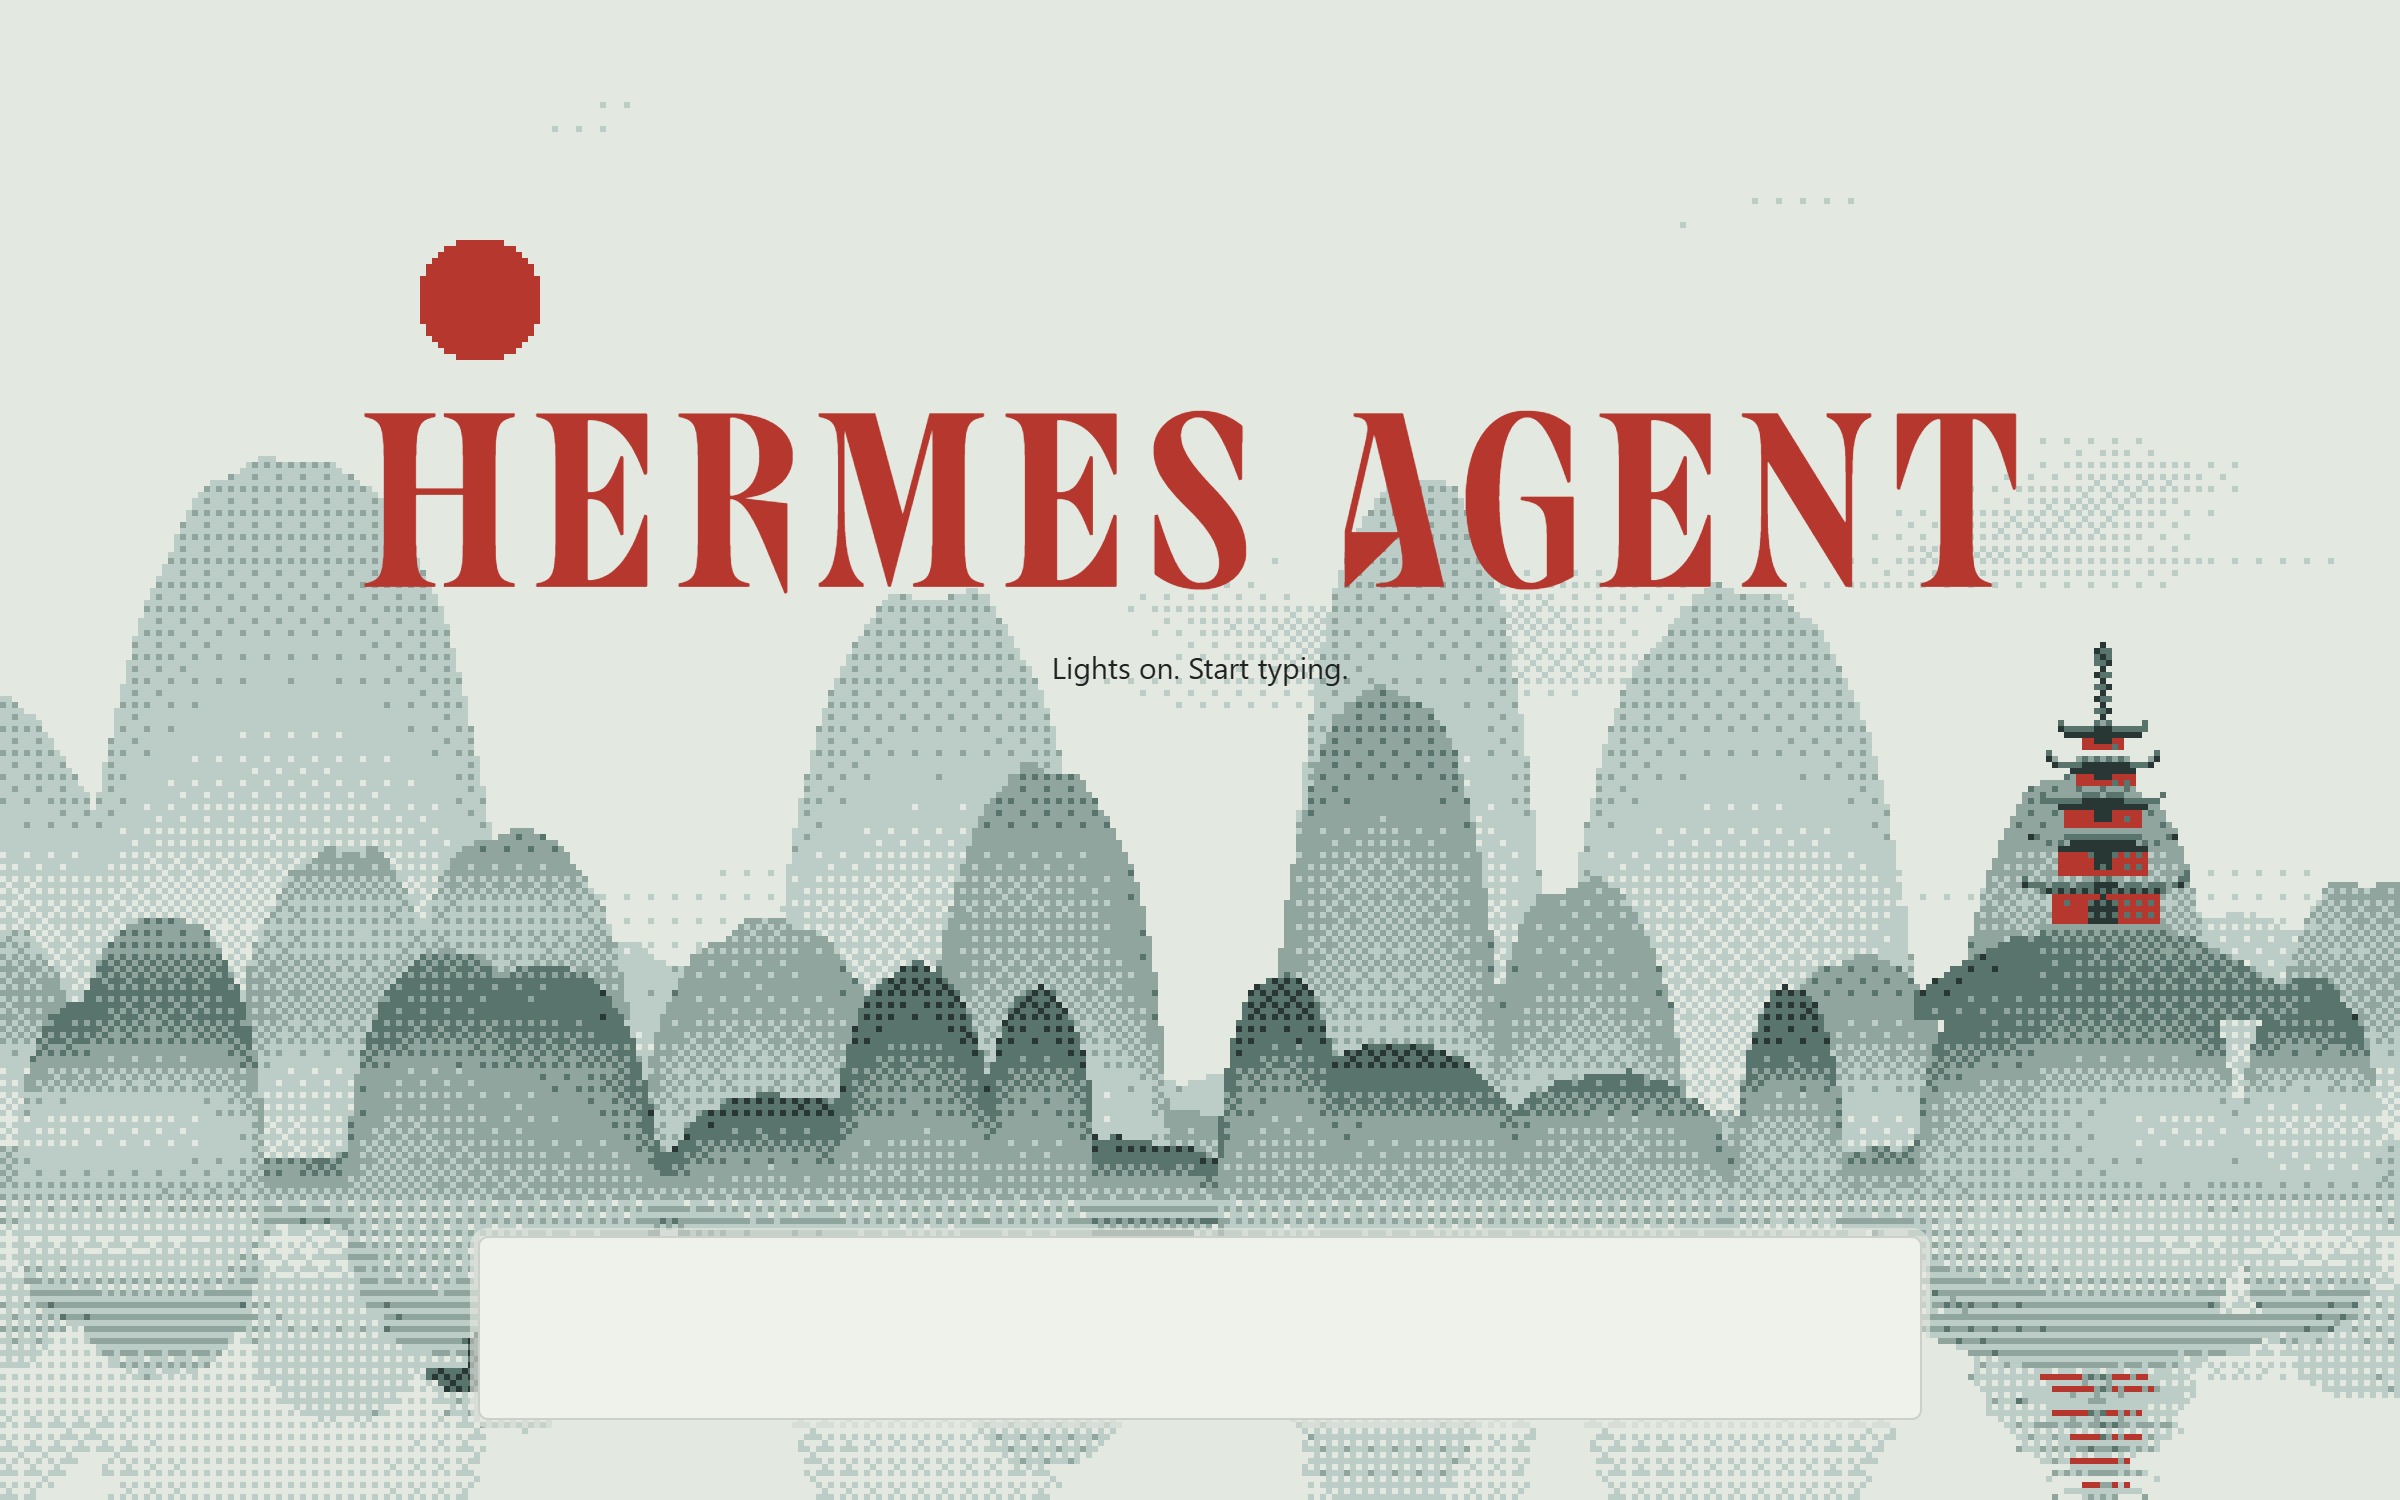
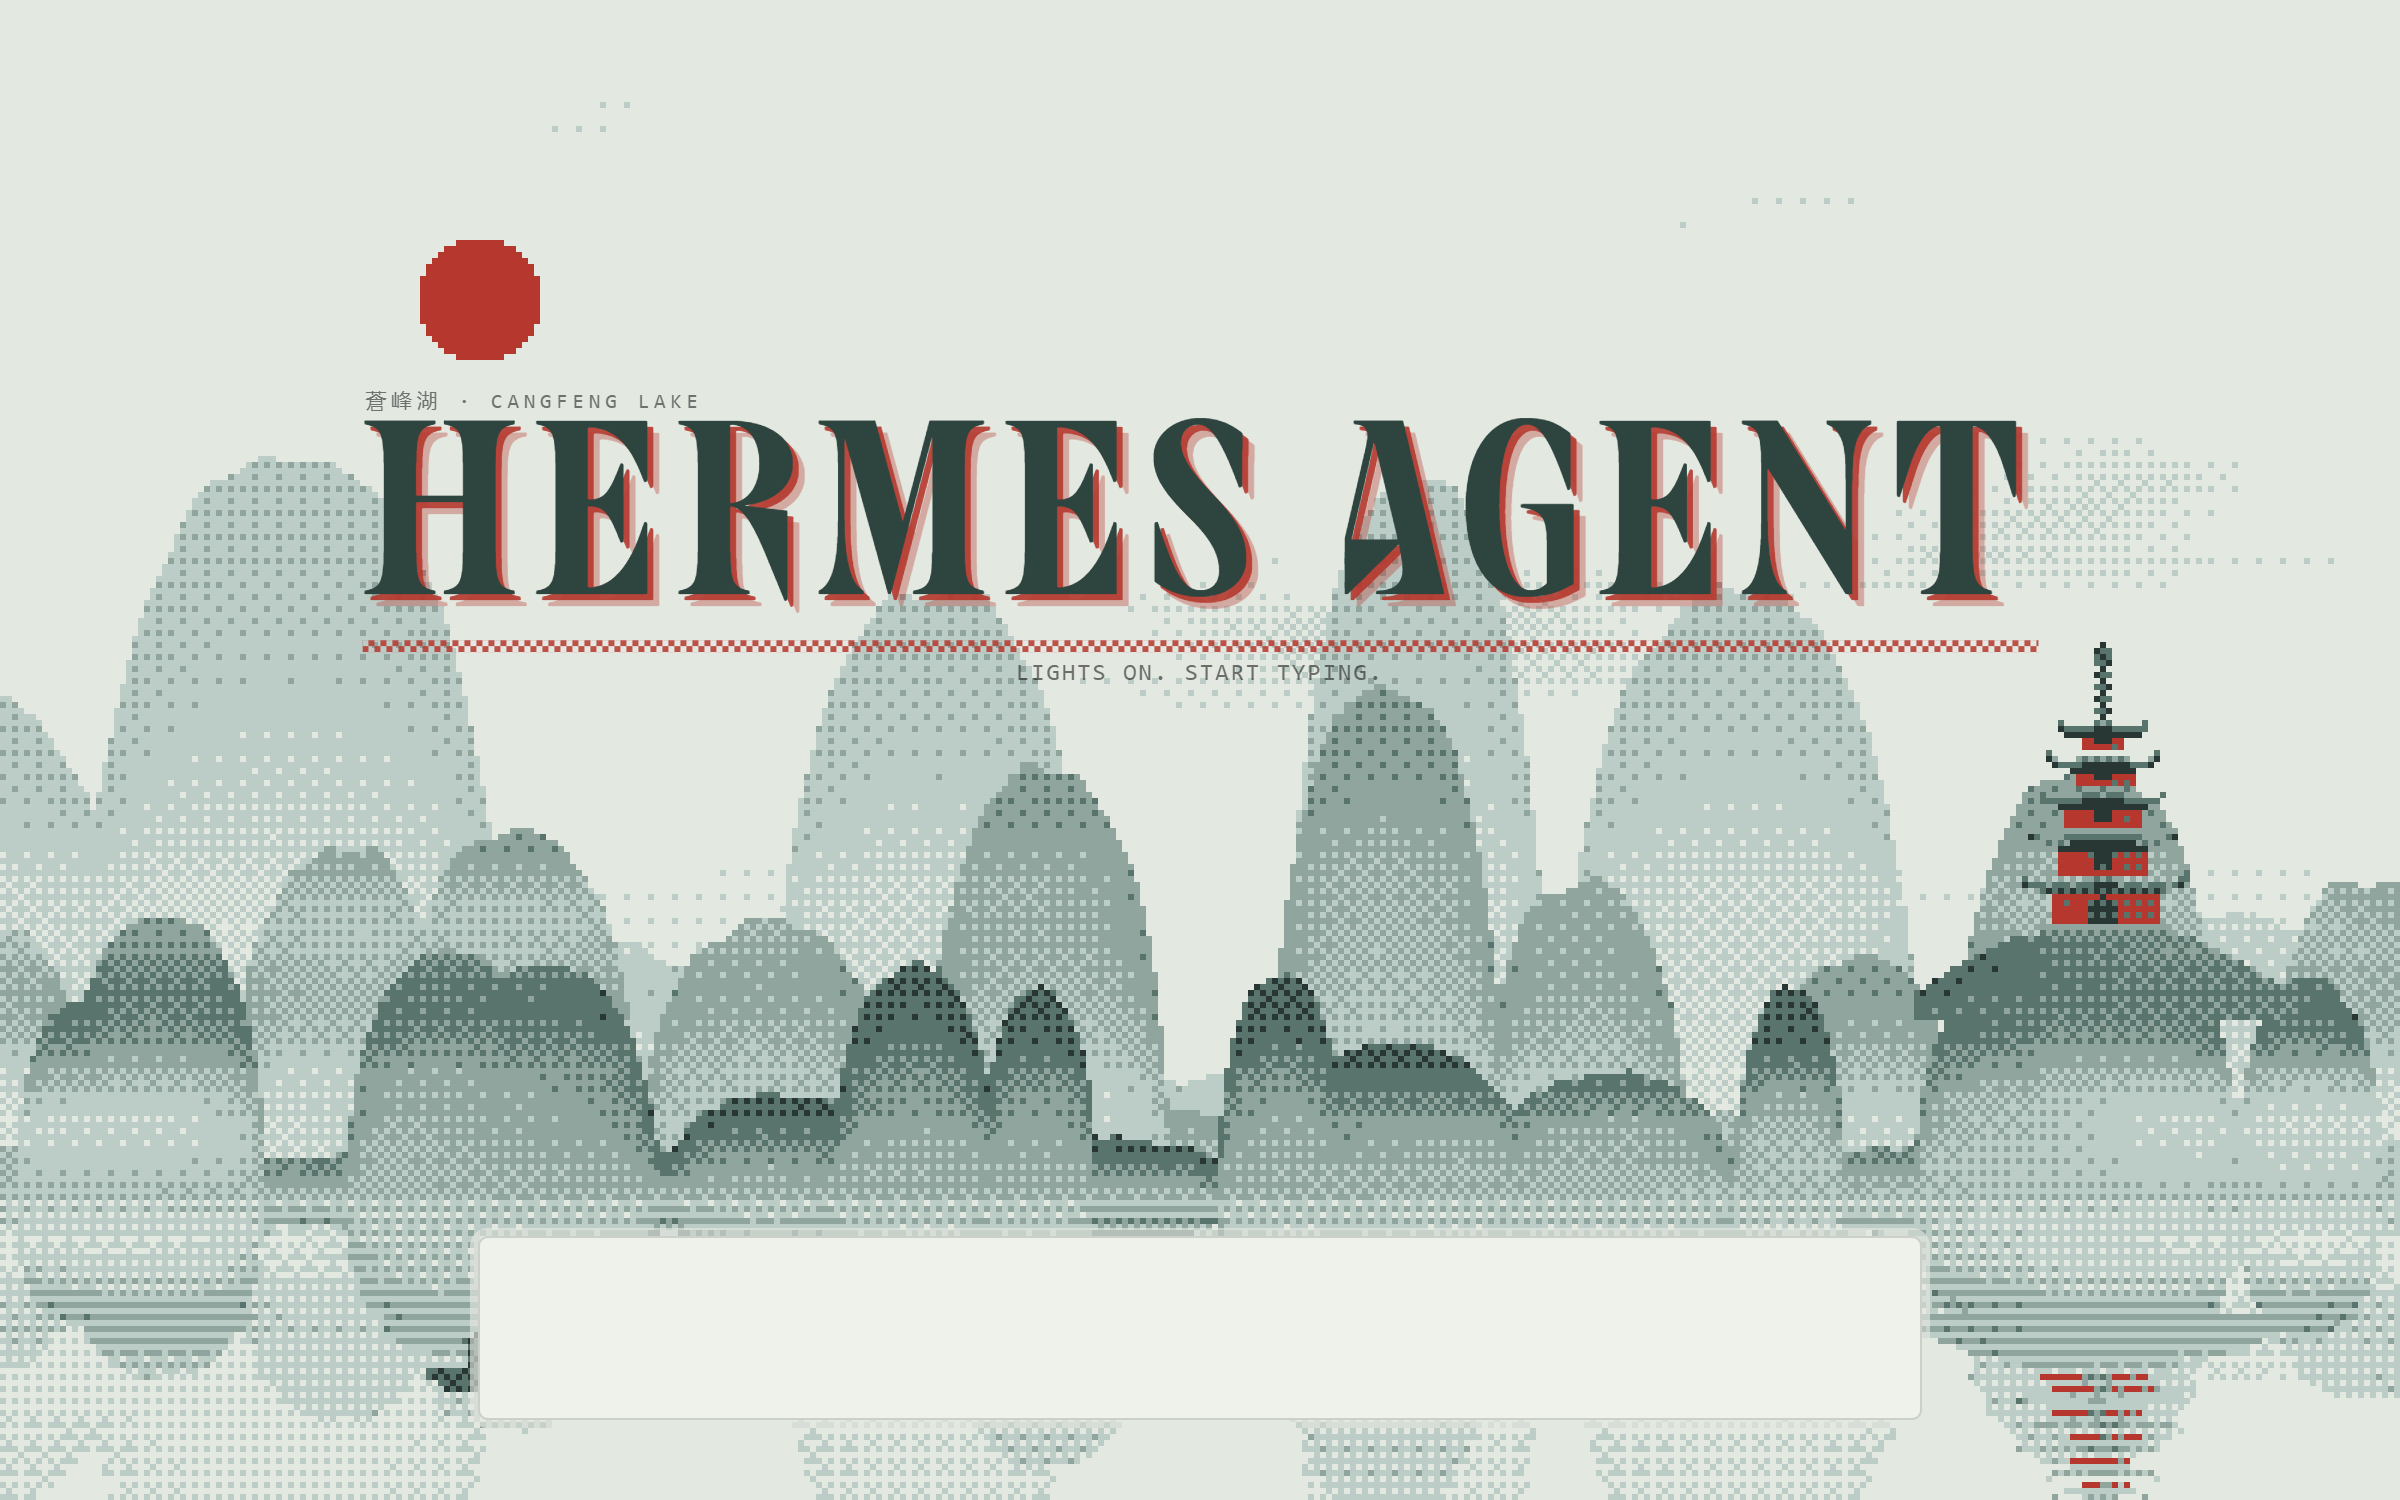
Give each theme its own new-chat title
Feisheng: ink wordmark with a cinnabar seal and an italic tagline. Cangfeng Lake: jade pixel letters on a stepped cinnabar shadow, a place tag and a dithered rule. README and pictures updated.

Changed region(s): [[0.1562, 0.2453, 0.8438, 0.46]]

diff --git a/desktop/plugin.js b/desktop/plugin.js
@@ -960,14 +960,16 @@ ${T} [data-slot="kbd"] {
   color: var(--jh-dim) !important;
 }
 
-/* The stock HERMES AGENT wordmark stays as it is. In light mode its
-   plus-lighter blend turns the letters into near-white over paper, so there
-   it is drawn as plain ink in the theme's accent instead. */
-${T}:not(.dark) .wordmark {
+/* The HERMES AGENT wordmark keeps its face and size; each theme dresses it
+   (see FEISHENG_CSS and CANGFENG_CSS). The stock plus-lighter blend washes
+   it out on paper, so both themes draw it with a normal blend. Effects use
+   text-shadow and absolutely placed pseudo-elements only: the fitted letters
+   overflow their box, so a background-clip fill would lose the last letters,
+   and a flex item would change the fitted size. */
+${T} .wordmark {
+  position: relative;
+  overflow: visible;
   mix-blend-mode: normal !important;
-}
-${T}:not(.dark) .wordmark > span:not([aria-hidden]) > span {
-  color: var(--theme-midground);
 }
 `
 }
@@ -979,6 +981,47 @@ const FEISHENG_CSS = `${baseCSS('feisheng', {
   sidebarMix: 82,
   radius: 3
 })}
+/* Empty chat: the wordmark in wet ink, stamped with a cinnabar seal (飛昇,
+   "ascend") at its top right, and a line of book type under it. */
+${sel('feisheng')} .wordmark > span:not([aria-hidden]) > span {
+  color: var(--theme-foreground);
+  text-shadow:
+    0 0 0.012em var(--theme-foreground),
+    0.01em 0.02em 0.05em color-mix(in srgb, var(--theme-foreground) 30%, transparent),
+    -0.02em 0.01em 0.12em color-mix(in srgb, var(--theme-foreground) 12%, transparent);
+}
+${sel('feisheng')} .wordmark::after {
+  content: '飛昇' / '';
+  position: absolute;
+  top: -2.2rem;
+  right: -1.4rem;
+  width: 3.6rem;
+  height: 3.6rem;
+  display: flex;
+  align-items: center;
+  justify-content: center;
+  writing-mode: vertical-rl;
+  font: 400 1.5rem/1 'KaiTi', 'STKaiti', 'Kaiti SC', 'BiauKai', serif;
+  letter-spacing: 0.06em;
+  text-transform: none;
+  color: var(--dt-midground-foreground);
+  background: var(--theme-midground);
+  border-radius: 3px;
+  box-shadow:
+    inset 0 0 0 2px var(--theme-midground),
+    inset 0 0 0 3px color-mix(in srgb, var(--dt-midground-foreground) 55%, transparent);
+  transform: rotate(-4deg);
+  opacity: 0.92;
+  pointer-events: none;
+}
+${sel('feisheng')} [data-slot="aui_intro"] p:not(.wordmark) {
+  font-family: 'Iowan Old Style', 'Palatino Linotype', Palatino, 'Book Antiqua', Georgia, serif;
+  font-style: italic;
+  font-size: 1.0625rem;
+  letter-spacing: 0.01em;
+  color: color-mix(in srgb, var(--theme-foreground) 68%, transparent);
+}
+
 ${sel('feisheng')} [data-jianghu-scene] canvas { transition: opacity 600ms ease; }
 ${sel('feisheng')} [data-jianghu-scene]:not(.on) canvas { opacity: 0; }
 ${sel('feisheng')} [data-jianghu-scene] .jh-mist-a { animation: jh-drift 140s ease-in-out infinite alternate; }
@@ -1001,6 +1044,50 @@ ${sel('cangfeng')} [data-tree-tab] {
   font-family: var(--font-mono);
   font-size: 0.6875rem;
   text-transform: uppercase;
+}
+
+/* Empty chat: the wordmark as a pixel title, jade letters on a stepped
+   cinnabar shadow one dither cell (3px) at a time, a place-name tag above
+   it, and a dithered shore line below. */
+${sel('cangfeng')} .wordmark > span:not([aria-hidden]) > span {
+  color: color-mix(in oklch, #2f4a44 85%, var(--theme-foreground));
+  text-shadow:
+    3px 3px 0 color-mix(in srgb, var(--theme-midground) 90%, transparent),
+    6px 6px 0 color-mix(in srgb, var(--theme-midground) 35%, transparent);
+}
+${sel('cangfeng')}.dark .wordmark > span:not([aria-hidden]) > span {
+  color: #cfe0d6;
+}
+${sel('cangfeng')} .wordmark::before {
+  content: '蒼峰湖 · Cangfeng Lake' / '';
+  position: absolute;
+  left: 0.15em;
+  bottom: calc(100% + 0.6rem);
+  font: 500 0.6875rem/1 var(--font-mono, ui-monospace, Consolas, monospace);
+  letter-spacing: 0.24em;
+  text-transform: uppercase;
+  white-space: nowrap;
+  color: color-mix(in srgb, var(--theme-foreground) 60%, transparent);
+  pointer-events: none;
+}
+${sel('cangfeng')} .wordmark::after {
+  content: '';
+  position: absolute;
+  left: 0;
+  right: 0;
+  top: calc(100% + 0.55rem);
+  height: 6px;
+  background: ${checker('var(--theme-midground)').replace('2px 2px', '6px 6px')};
+  opacity: 0.85;
+  pointer-events: none;
+}
+${sel('cangfeng')} [data-slot="aui_intro"] p:not(.wordmark) {
+  margin-top: 1.1rem;
+  font-family: var(--font-mono, ui-monospace, Consolas, monospace);
+  font-size: 0.8125rem;
+  letter-spacing: 0.08em;
+  text-transform: uppercase;
+  color: color-mix(in srgb, var(--theme-foreground) 62%, transparent);
 }
 `
 

diff --git a/README.md b/README.md
@@ -36,7 +36,7 @@ You need Hermes Desktop 0.22.2 or later.
 ## Small decisions, already made
 
 - **The chat stays readable.** The scene is at full strength only on an empty chat. Behind a conversation or any other page it fades to about a third.
-- **The usual wordmark.** The empty chat keeps Hermes's own HERMES AGENT lettering. In light mode it is drawn in the theme's cinnabar, because the stock blend turns it near-white on paper.
+- **A title for each scene.** A new chat keeps Hermes's own HERMES AGENT lettering, dressed for the theme. Feisheng: wet black ink with a cinnabar seal (飛昇, "ascend") at its corner and an italic book line under it. Cangfeng Lake: jade pixel letters on a stepped cinnabar shadow, a 蒼峰湖 place tag above and a dithered shore line below.
 - **The colours are yours to change.** Both scenes read the theme's paper, ink and accent, so another accent in **Settings → Appearance** recolours the sun, the tab marks and the pagoda.
 - **Opaque by design.** The scene sits on its own paper, so **Window Translucency** has no visible effect while a Jianghu theme is active.
 - **Easy on the machine.** Feisheng paints once (on load, resize and theme change) with Canvas 2D; afterwards only CSS animations run. Cangfeng draws one WebGL shader at one pixel per 3px cell, 20 frames a second, and stops while the window is hidden.
